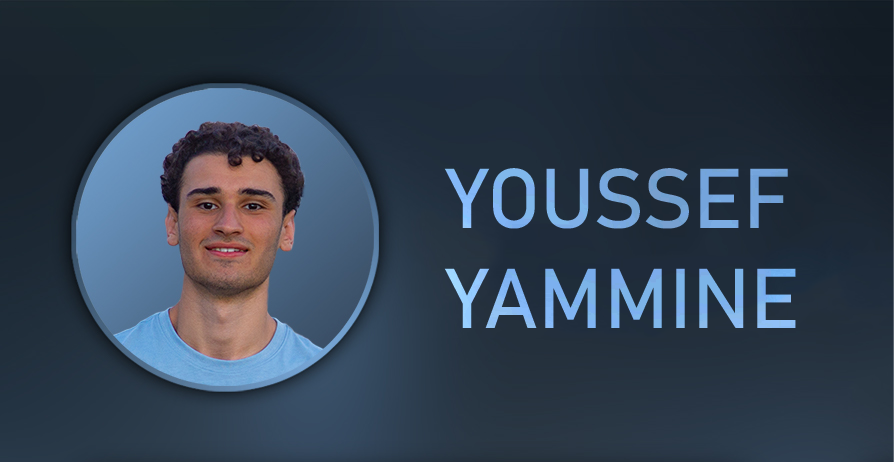
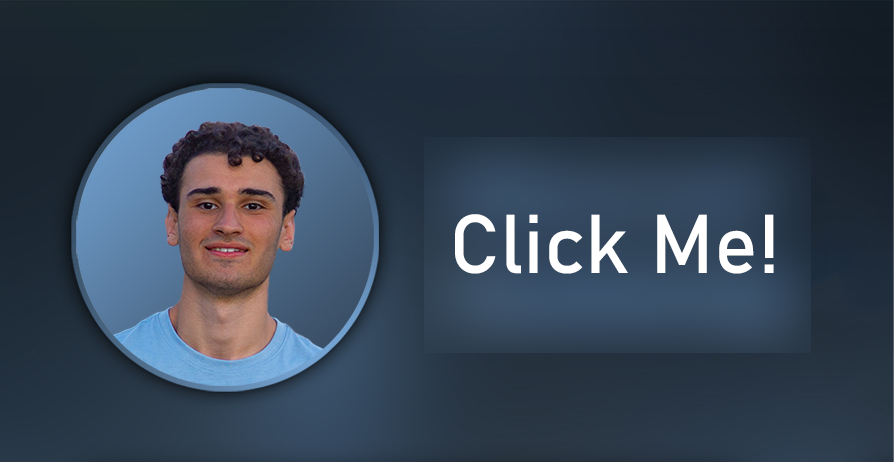
added clickable header picture

Changed region(s): [[0.4832, 0.3333, 0.906, 0.7576]]

diff --git a/README.md b/README.md
@@ -1,4 +1,7 @@
 # Resume
+
+[![Resume Header](https://raw.githubusercontent.com/lebenebou/Resume/main/header.png)](https://lebenebou.github.io/Resume/YoussefYammine.pdf)
+
 Showing off some photohop skills in my resume.
 Uploading it to Github allows me to see commit history and reminisce about my learning journey.
 It is also hosted online through [GitHub Pages](https://pages.github.com/), allowing for dynamic changes to a single PDF link.
